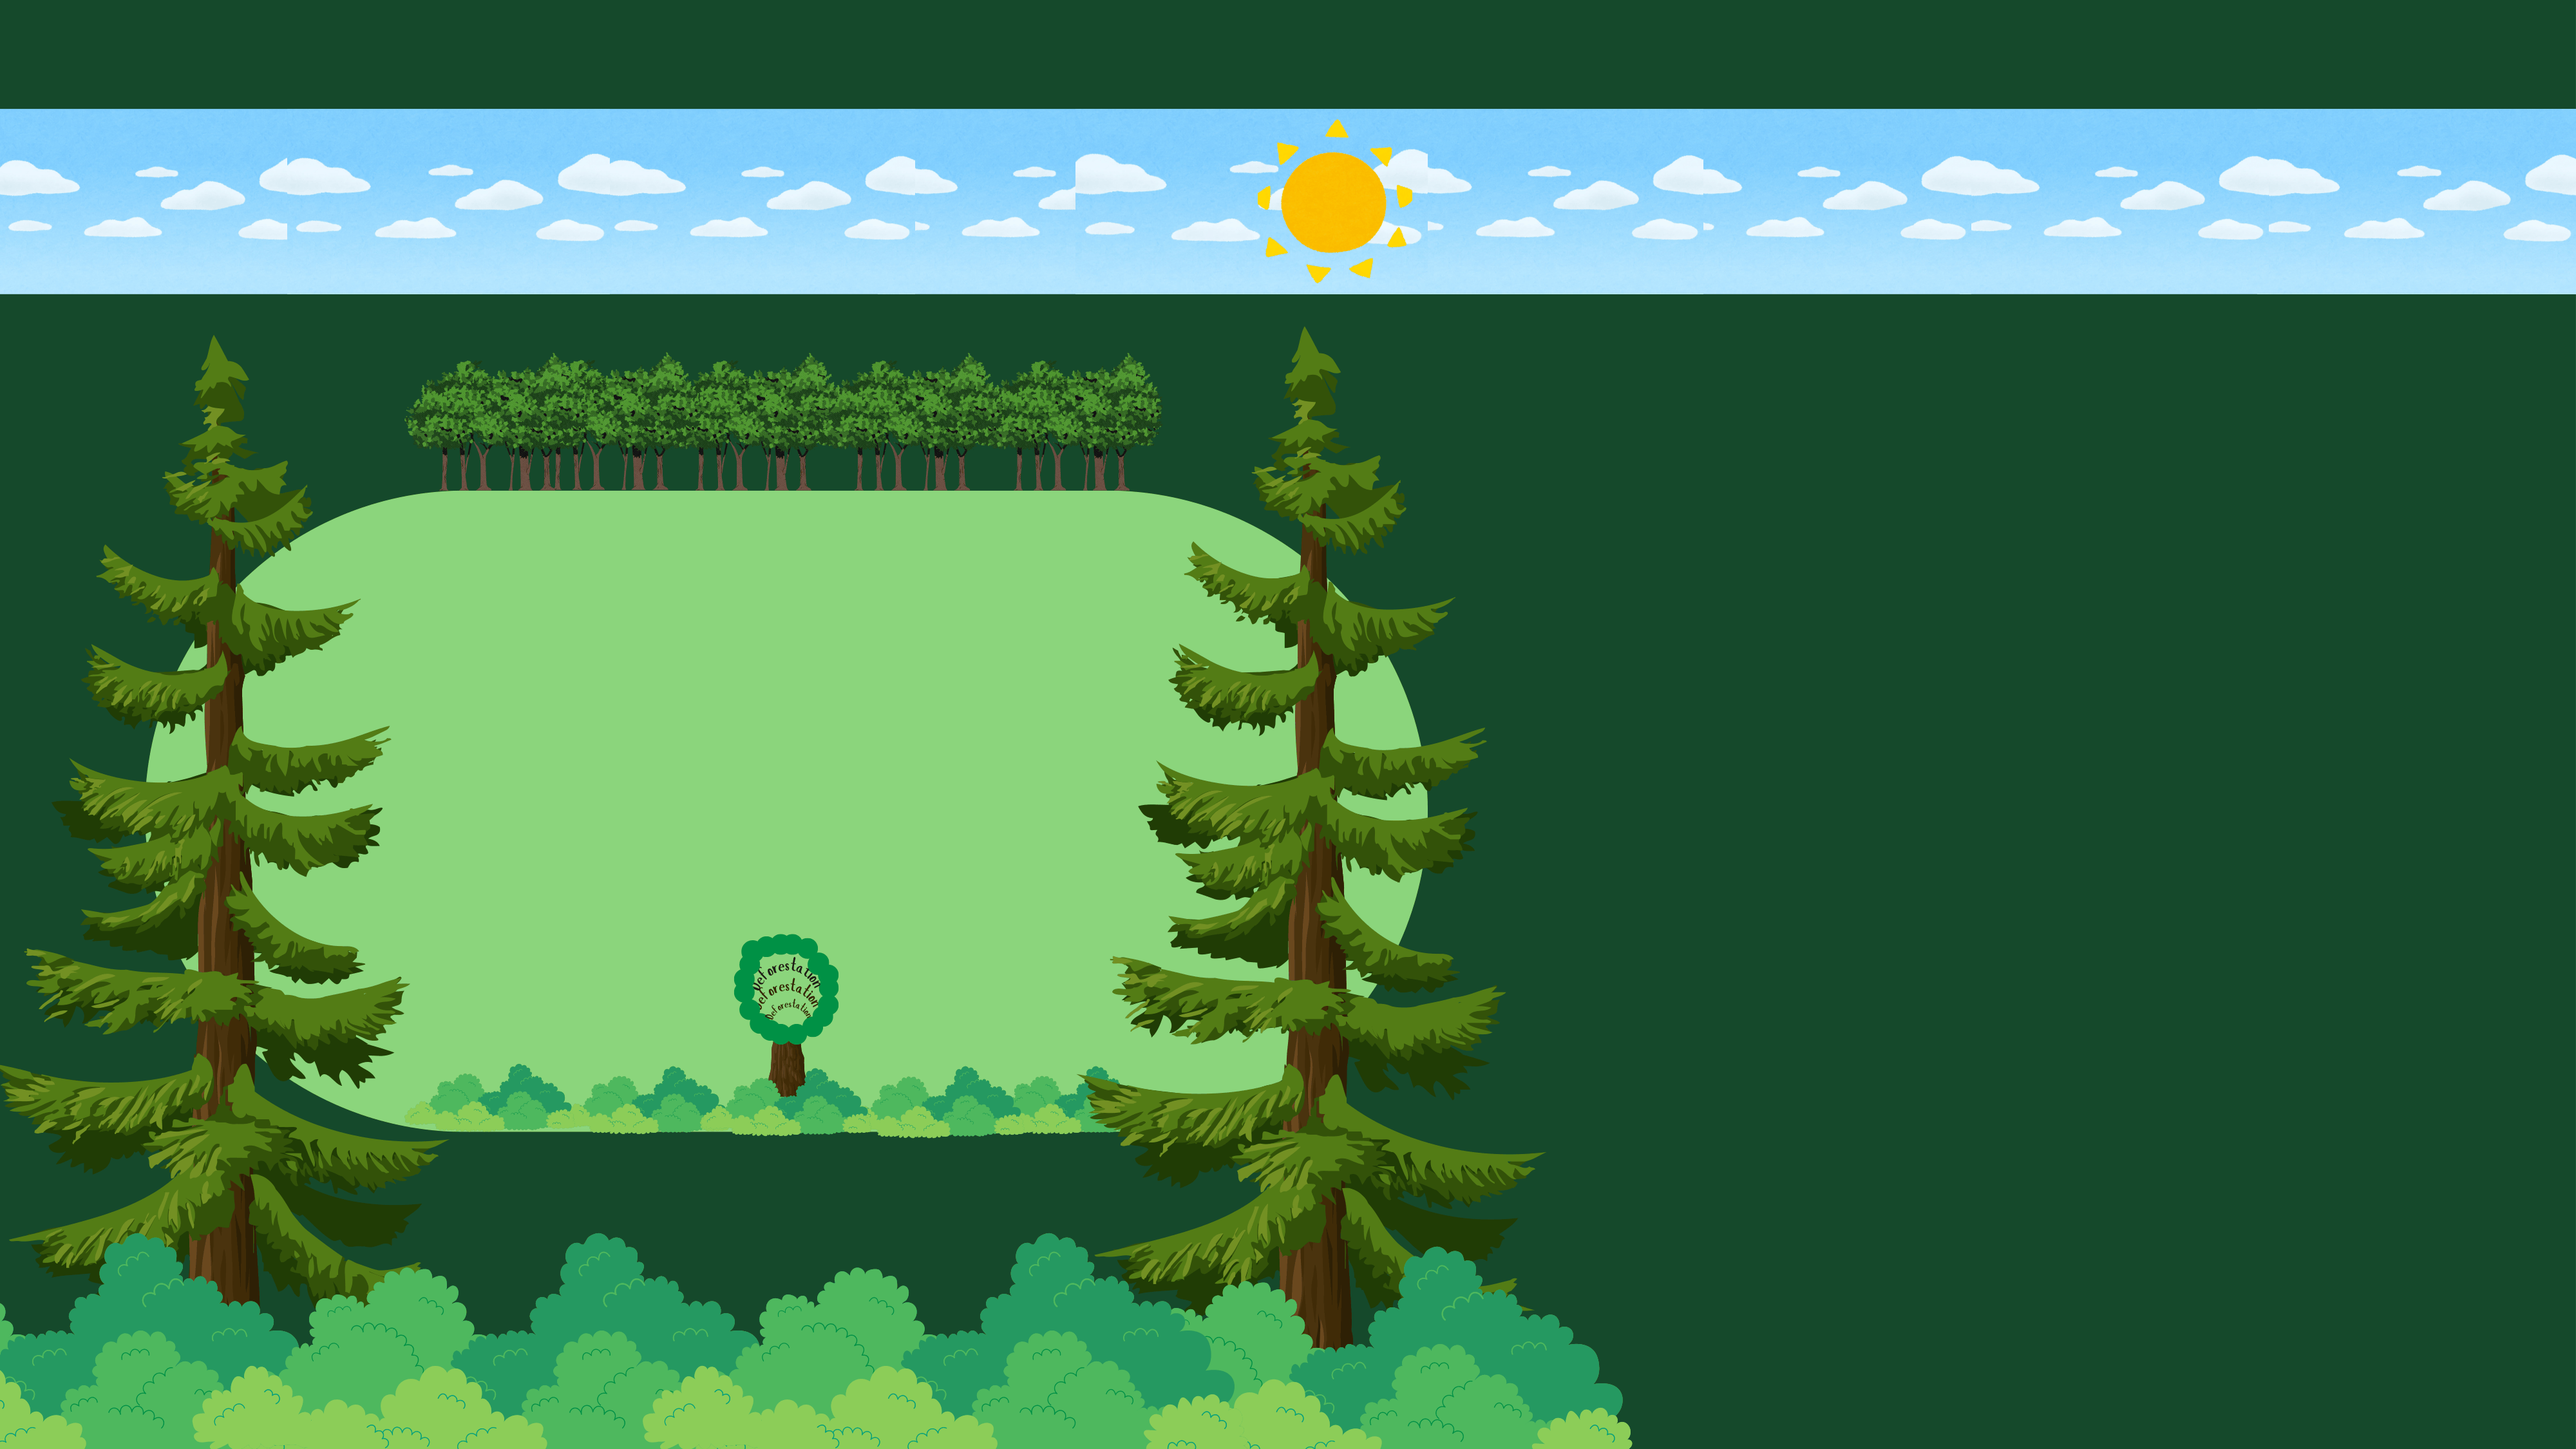
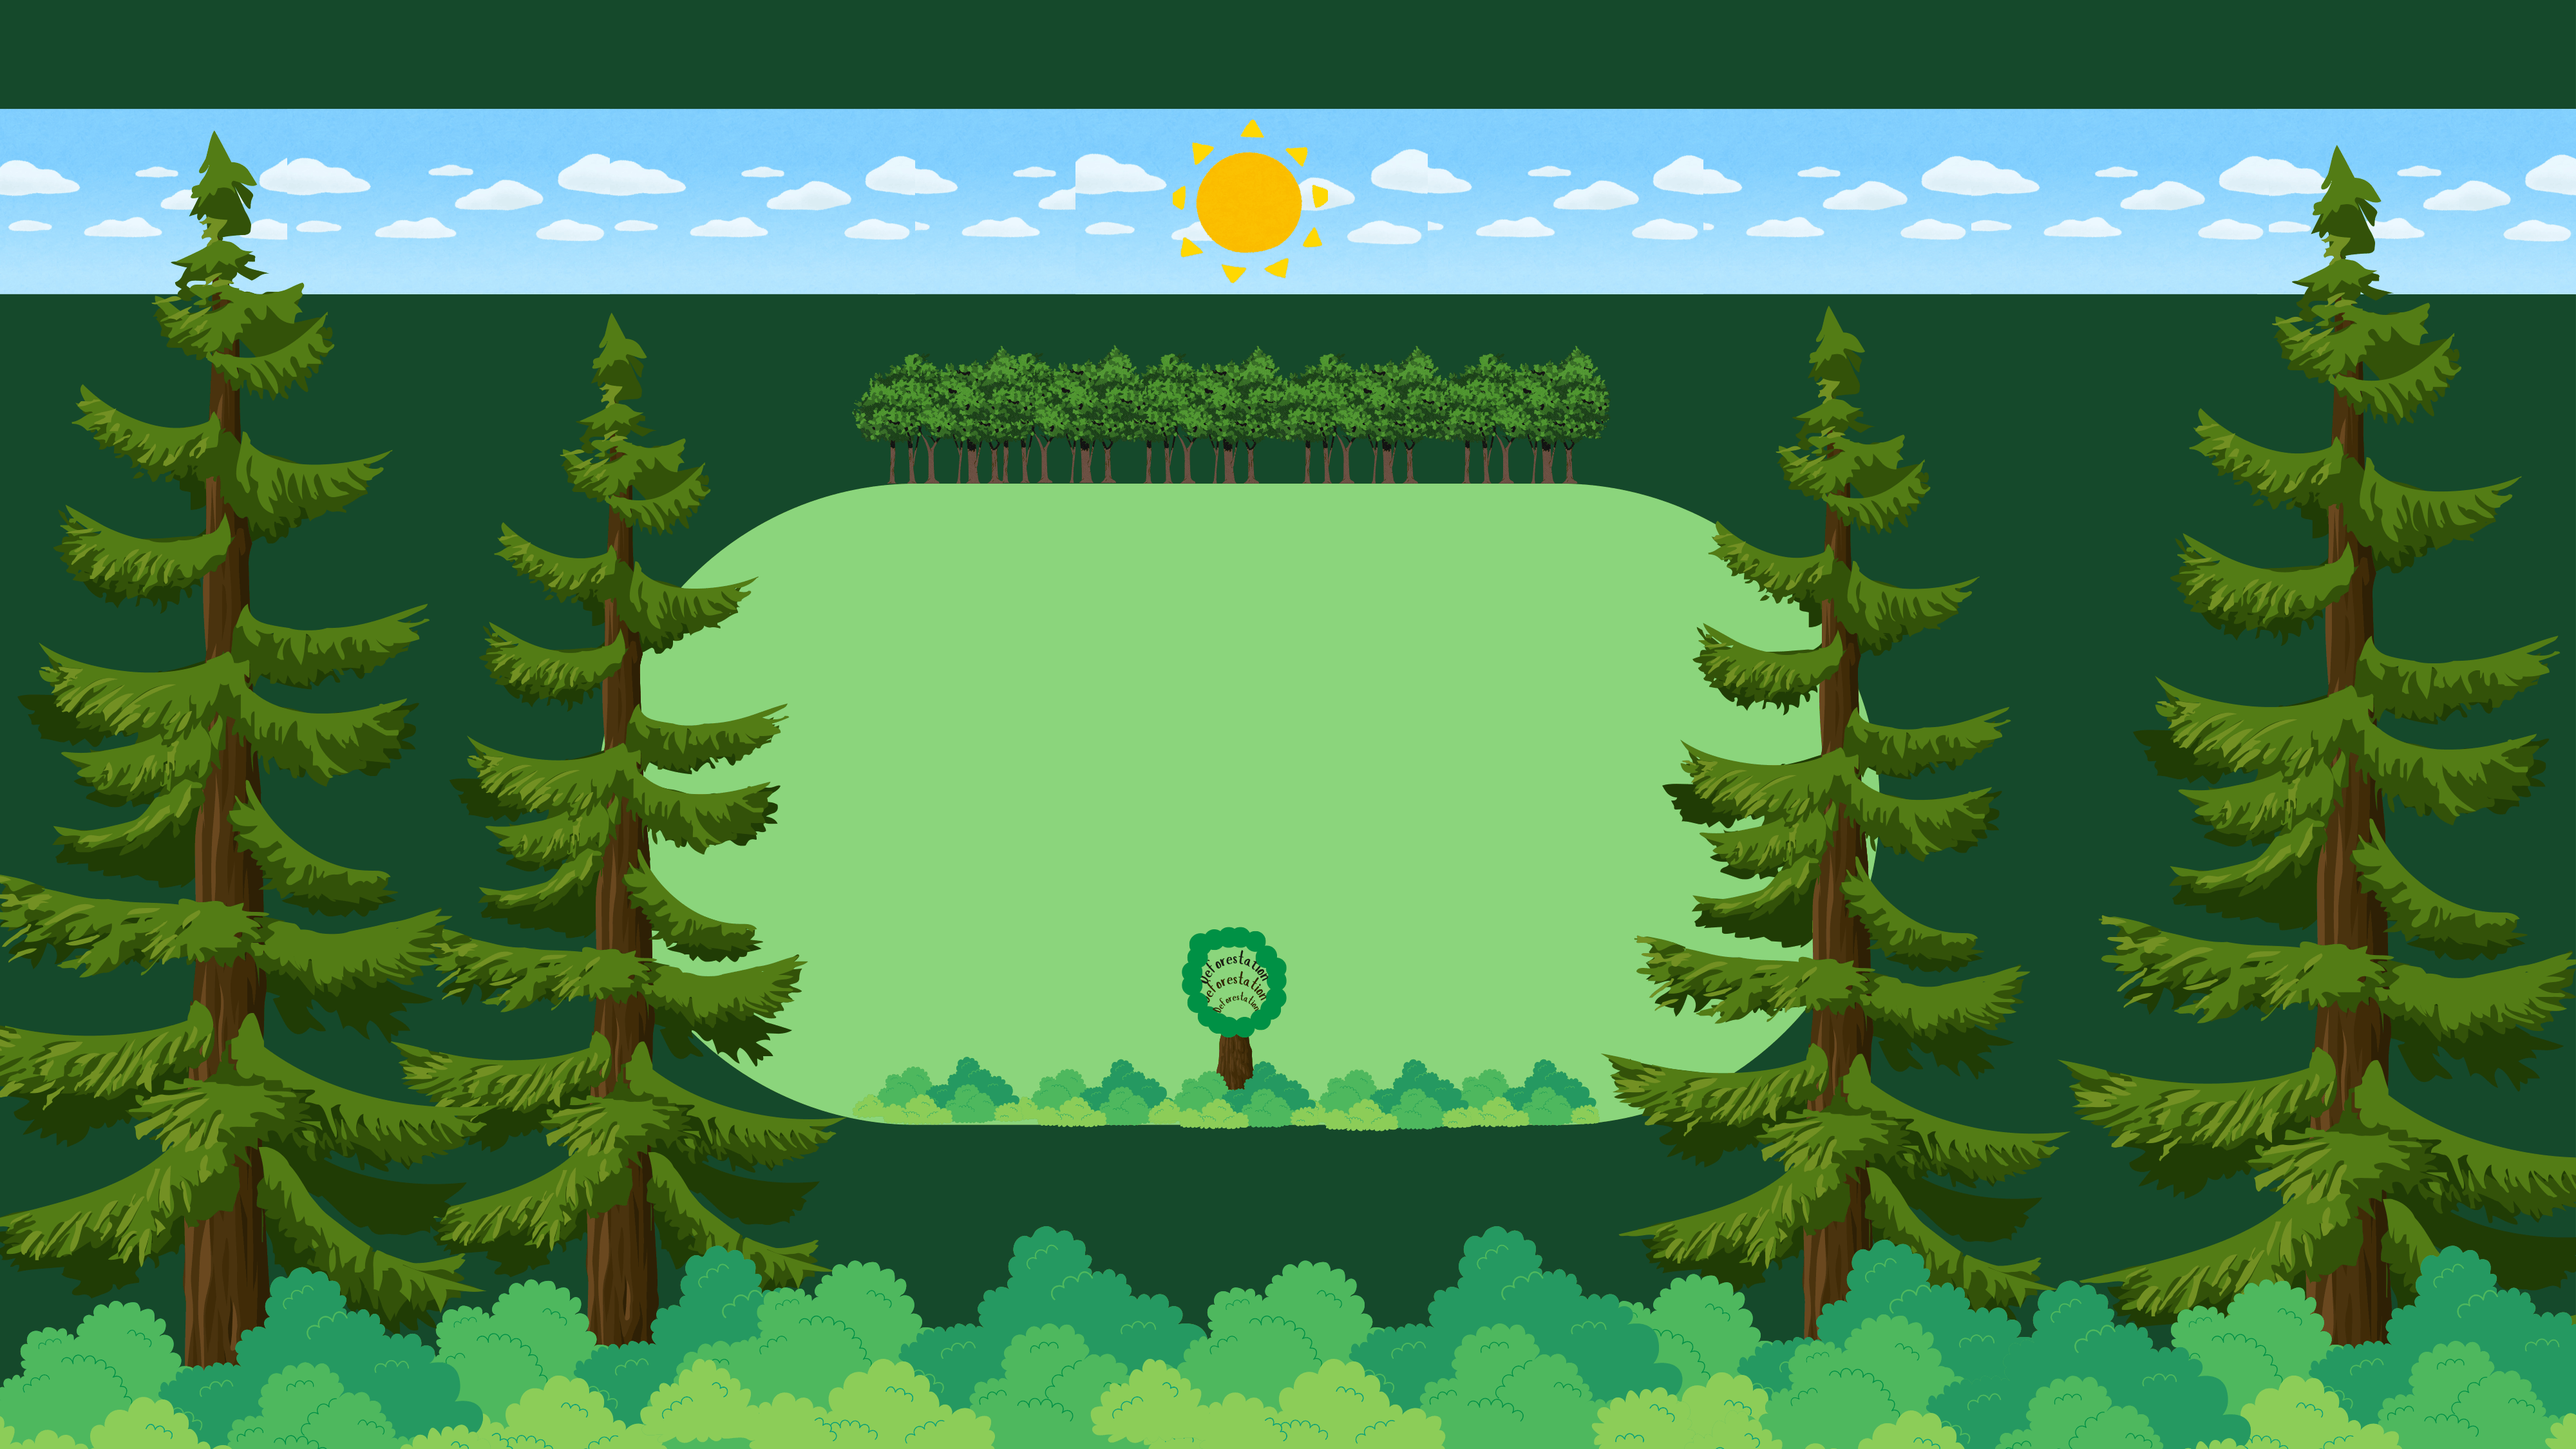
try adding text and new baclground

diff --git a/style.css b/style.css
@@ -1,25 +1,18 @@
-ul {
-  list-style-type: none;
-  margin: 0;
-  padding: 0;
-  overflow: hidden;
-  background-color: #89CFF0 ;
-}
-
-ul li {
-  float: left;
+ul li a {
+   float: left;
 }
 
 ul li a {
   display: block;
   color: white;
   text-align: center;
-  padding: 9% 9%;
+  padding: 20px 20px;
   text-decoration: none;
 }
+}
 
-ul li a:hover {
-  background-color: #097969;
+ul li a:hover:not(.active) {
+  background-color: #111111;
 }
 
 ul {
@@ -38,11 +31,24 @@ ul li {
 ul li:last-child {
   border-right: none;
 }
-
+ul li a:hover {
+  background-color: #50C878;
+}
 
 body {
 background-image: url("images/Background.png");
 background-size: 100% 100%;
 background-repeat:no-repeat;
 background-attachment: fixed
+}
+
+
+}
+
+
+.centered {
+  position: absolute;
+  top: 50%;
+  left: 50%;
+  transform: translate(-50%, -50%);
 }

diff --git a/index.html b/index.html
@@ -11,6 +11,7 @@
 
 <nav class="Navigation">
 <ul>
+
     <li></li>
  <li><a href="#donation">Donation Page</a></li>
  <li><a href="#Contact">Contact Page</a></li>
@@ -19,6 +20,26 @@
     <li></li>
 </ul>
 </nav>
+
+<div class="container">
+  <img src="Background.png" alt="background" style="width:100%;">
+  <div class="centered">Centered</div>
+</div>
+
+
+
+
+
+
+
+
+
+
+
+
+
+
+
 
 </body>
 </html>
